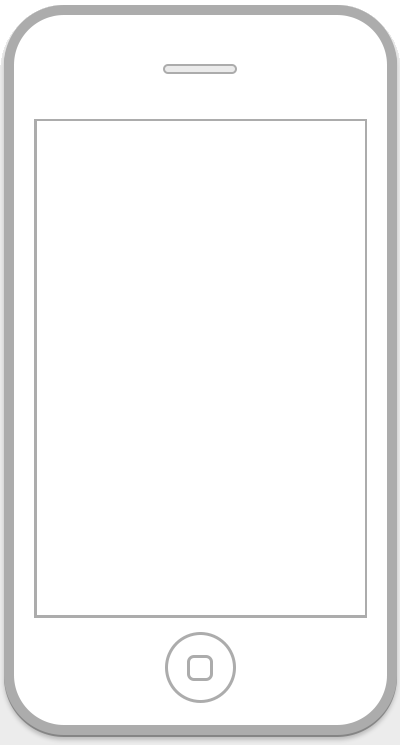
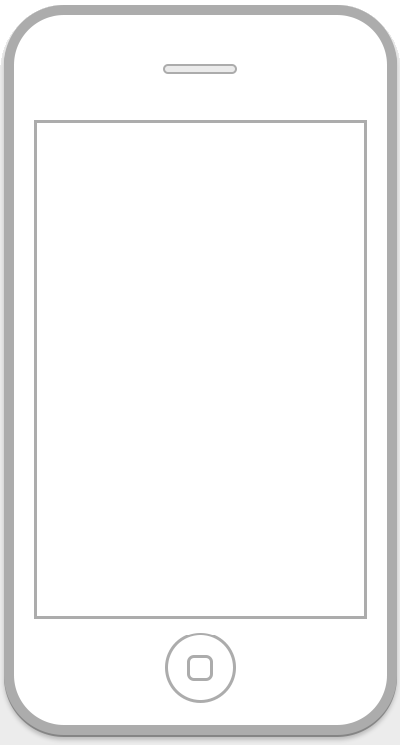
VTK-3321 - border fix for mobile

Changed region(s): [[0.09, 0.1544, 0.93, 0.1852], [0.9, 0.8027, 0.93, 0.8336]]

diff --git a/src/main/resources/web/themes/default/default.css b/src/main/resources/web/themes/default/default.css
@@ -2167,17 +2167,16 @@ ul#preview-mode {
 }
 
 .mobile body#vrtx-preview #app-content #contents #previewIframeWrapper #previewIframeInnerWrapper {
-  width: 329px !important;
-  height: 495px !important;
+  width: 327px !important;
+  height: 493px !important;
   overflow: scroll;
   overflow-x: hidden;
   -webkit-overflow-scrolling: touch;
   background-color: #fff;
   display: block;
-  margin: -624px auto 0;
+  margin: -622px auto 0;
   border: none;
   position: relative;
-  z-index: 1;
 }
 
 .mobile body#vrtx-preview #app-content #contents iframe#previewIframe {
@@ -2189,10 +2188,10 @@ ul#preview-mode {
 }
 
 .mobile.horizontal body#vrtx-preview #app-content #contents #previewIframeWrapper #previewIframeInnerWrapper {
-  width: 495px !important;
-  height: 329px !important;
-  top: -84px;
-  left: -4px;
+  width: 493px !important;
+  height: 327px !important;
+  top: -86px;
+  left: -5px;
 }
 
 .mobile body#vrtx-preview #app-content #contents #previewIframeWrapper #preview-mode-mobile-rotate-hv {
